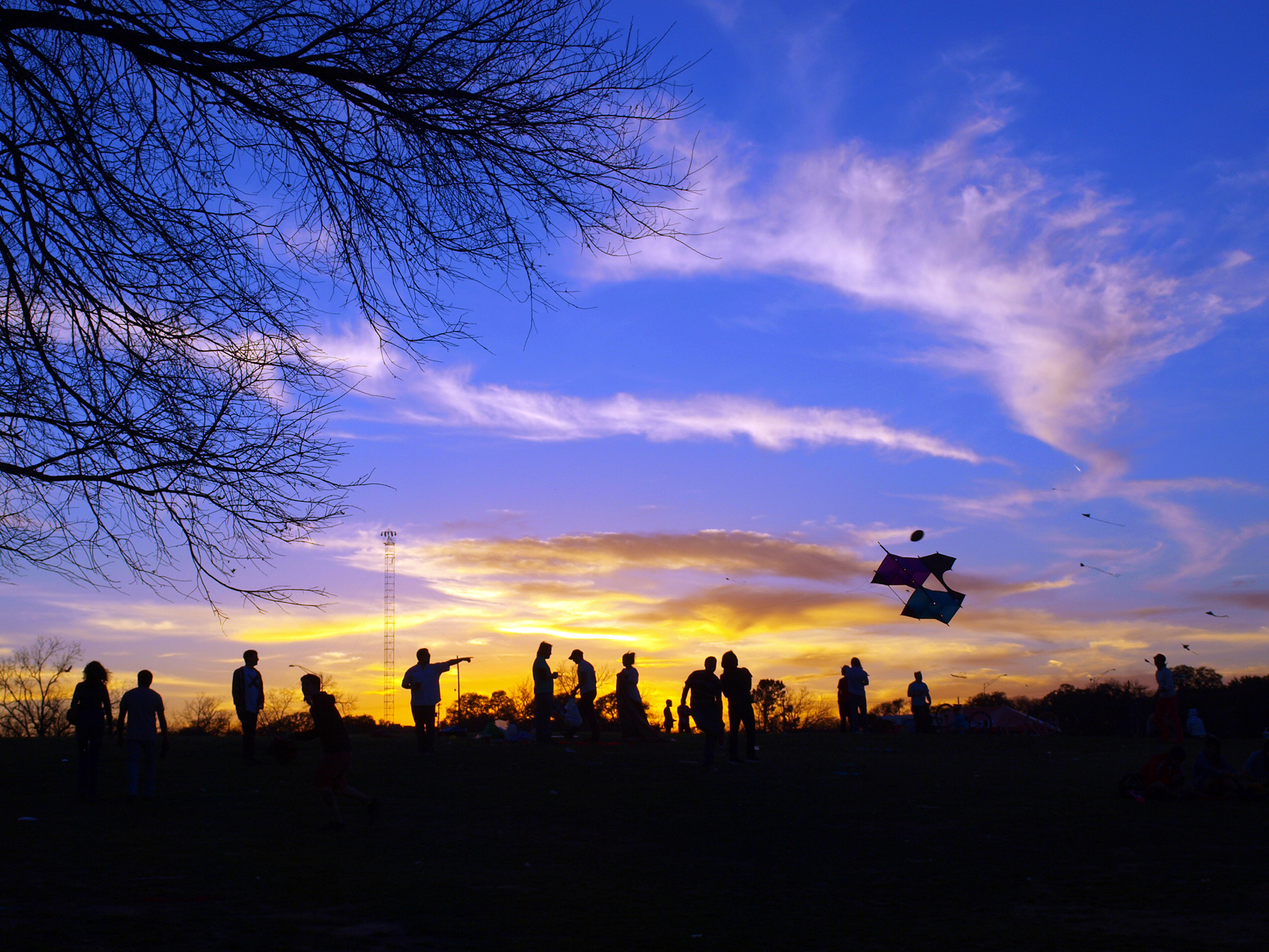
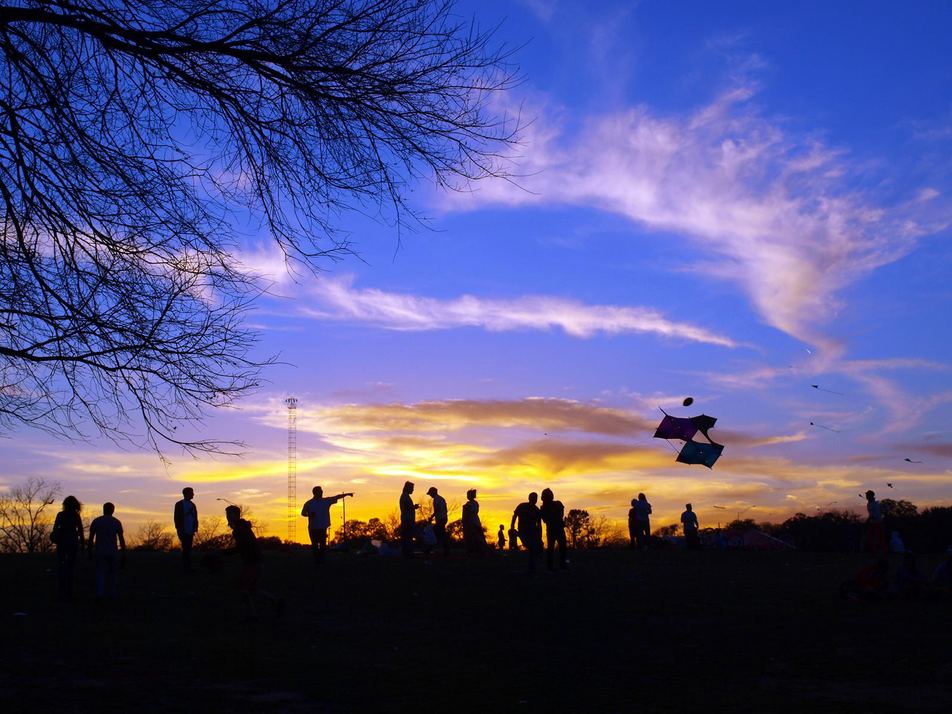
Adding downsized images

diff --git a/index.html b/index.html
@@ -50,7 +50,7 @@ title: Abhishek Agrawal
   </div>
 
   <div class="section">
-    <h3 class="no-bottom-margin"><a href="/painting.html">Painting</a></h3>  
+    <h3 class="no-bottom-margin"><a href="/painting.html">Paintings</a></h3>  
     <div class="teaser-grid">
       {% for post in painting_posts limit: 3 %}
           <div class="cell">

diff --git a/css/style.css b/css/style.css
@@ -32,7 +32,6 @@ h1,h2,h3.no-bottom-margin { margin-bottom: 0; }
 
 a {
   text-decoration: none;
-  color: #316d96;
   color: #4c8edb;
 }
 
@@ -49,6 +48,8 @@ a:hover { color: #39c; }
 }
 
 .section { margin-top: 3em; }
+
+.section .view-more { font-size: 16px; }
 
 .responsive-image {
   max-width: 100%;
